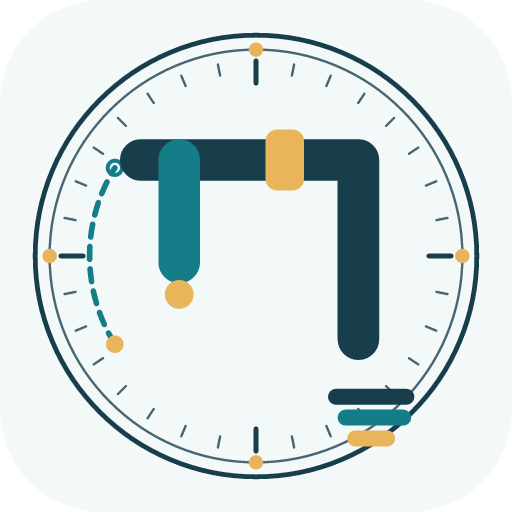
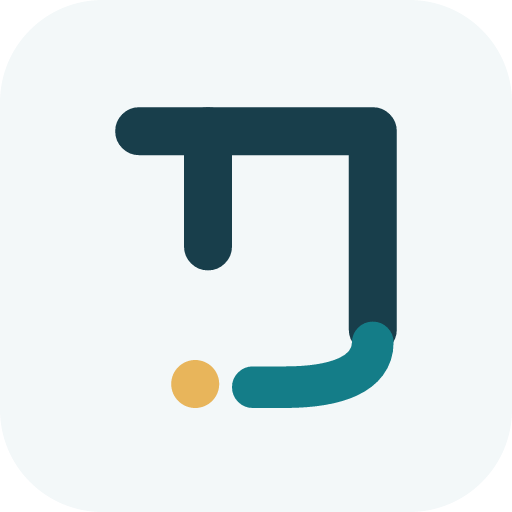
Simplify the mark to the unbroken line (#113)
Feedback: the emblem was over-engineered — meanings that need a legend
do not make a logo. The mark is now one unbroken line: kept context
(ink) turns down through compaction and continues as the summary
(teal), ending at a gold anchor. Two colors, one stroke, one dot;
readable at 16 px. identity.md tells the story in three sentences.

Changed region(s): [[0.0625, 0.0625, 0.9375, 0.9375]]

diff --git a/docs/identity.md b/docs/identity.md
@@ -35,31 +35,20 @@ package is published by this identity change.
 
 ## Visual language
 
-The mark is an **engraved continuity emblem** — an instrument ring read as the
-session itself, with the π glyph living inside it. Every element names a real
-behavior; nothing is decoration for its own sake:
-
-| Element | Meaning |
-| --- | --- |
-| Unbroken double ring | the session envelope: continuity around everything |
-| 32 fine ticks | conversation turn boundaries on the session ring |
-| 4 gold cardinal beads | the EESV stages: extract, explore, synthesize, verify |
-| Dashed inner arc with a gold bead | the prompt-cache lifetime between requests; the gold bead is the request that starts the clock, the hollow end a cache read |
-| π interlace, ink | kept context: the bar turns down into the retained tail |
-| Gold plaque threaded on the bar | an archived excerpt that stays in context behind a retrievable reference |
-| Short teal stem with a gold foot | a bounded exploration that ends at an anchor point |
-| Narrowing strata falling from the kept tail | extract → synthesize → verify: noise condensed toward essence, archived below |
-
-It expresses continuity and measured hygiene without a generic compression
-arrow, database stack or infinity symbol. This is a visual metaphor, not a
-diagram of the compaction algorithm.
+The mark is **one unbroken line**: kept context runs straight, turns down
+through compaction, and continues as the summary — the stroke changes color
+exactly there (ink to teal) — and comes to rest on a gold anchor. Nothing
+else. The line never lifts, because the product's promise is that nothing
+useful is ever lost: compacted, re-colored, still one line, still on its way
+back. It avoids the generic compression arrow, database stack and infinity
+symbol, and it reads at 16 px.
 
 | Role | Color | Use |
 | --- | --- | --- |
-| Deep ink | `#183E4B` | Kept context, retained tail, outer ring, wordmark |
-| Return teal | `#147D88` | Compacted summary, stems, dashed cache arc |
-| Anchor gold | `#E8B55B` | EESV beads, excerpt plaque, archive essence; never body text |
-| Supporting ink | `#466674` | Fine ticks, inner ring, banner descriptor |
+| Deep ink | `#183E4B` | Kept context: the bar and the retained tail |
+| Return teal | `#147D88` | The summary continuing after compaction |
+| Anchor gold | `#E8B55B` | The point the line ends on; never body text |
+| Supporting ink | `#466674` | Banner descriptor |
 | Mist | `#F3F8F9` | Banner and rounded catalog tile |
 
 The wordmark uses **Avenir Next Demi Bold**; the descriptor uses **Avenir Next
@@ -76,7 +65,7 @@ Installation steps, controls and warnings must remain available as text.
 ## Visual assets
 
 <p>
-  <img src="./assets/pi-smart-compact.png?v=2" alt="Pi Continuity: an engraved continuity emblem around a π interlace" width="128" height="128" />
+  <img src="./assets/pi-smart-compact.png?v=2" alt="Pi Continuity: one unbroken line through compaction, ending at a gold anchor" width="128" height="128" />
 </p>
 
 | File | Dimensions | Purpose |
@@ -107,7 +96,7 @@ const mark = banner.match(/<g id="continuity-mark">[\s\S]*?<\/g>/)?.[0];
 if (!mark) throw new Error("Missing continuity-mark group in banner.svg");
 const icon = `<svg xmlns="http://www.w3.org/2000/svg" width="512" height="512" viewBox="0 0 320 320" role="img" aria-labelledby="title description">
   <title id="title">Pi Continuity</title>
-  <desc id="description">The continuity emblem: an engraved session ring with turn ticks and EESV beads around a π interlace with a gold excerpt plaque and narrowing archive strata.</desc>
+  <desc id="description">One unbroken line: kept context turns down through compaction and continues as the summary, ending at a gold anchor.</desc>
   <!-- Generated from banner.svg; regenerate using docs/identity.md. -->
   <rect width="320" height="320" rx="64" fill="#F3F8F9"/>
   <g>${mark}</g>
